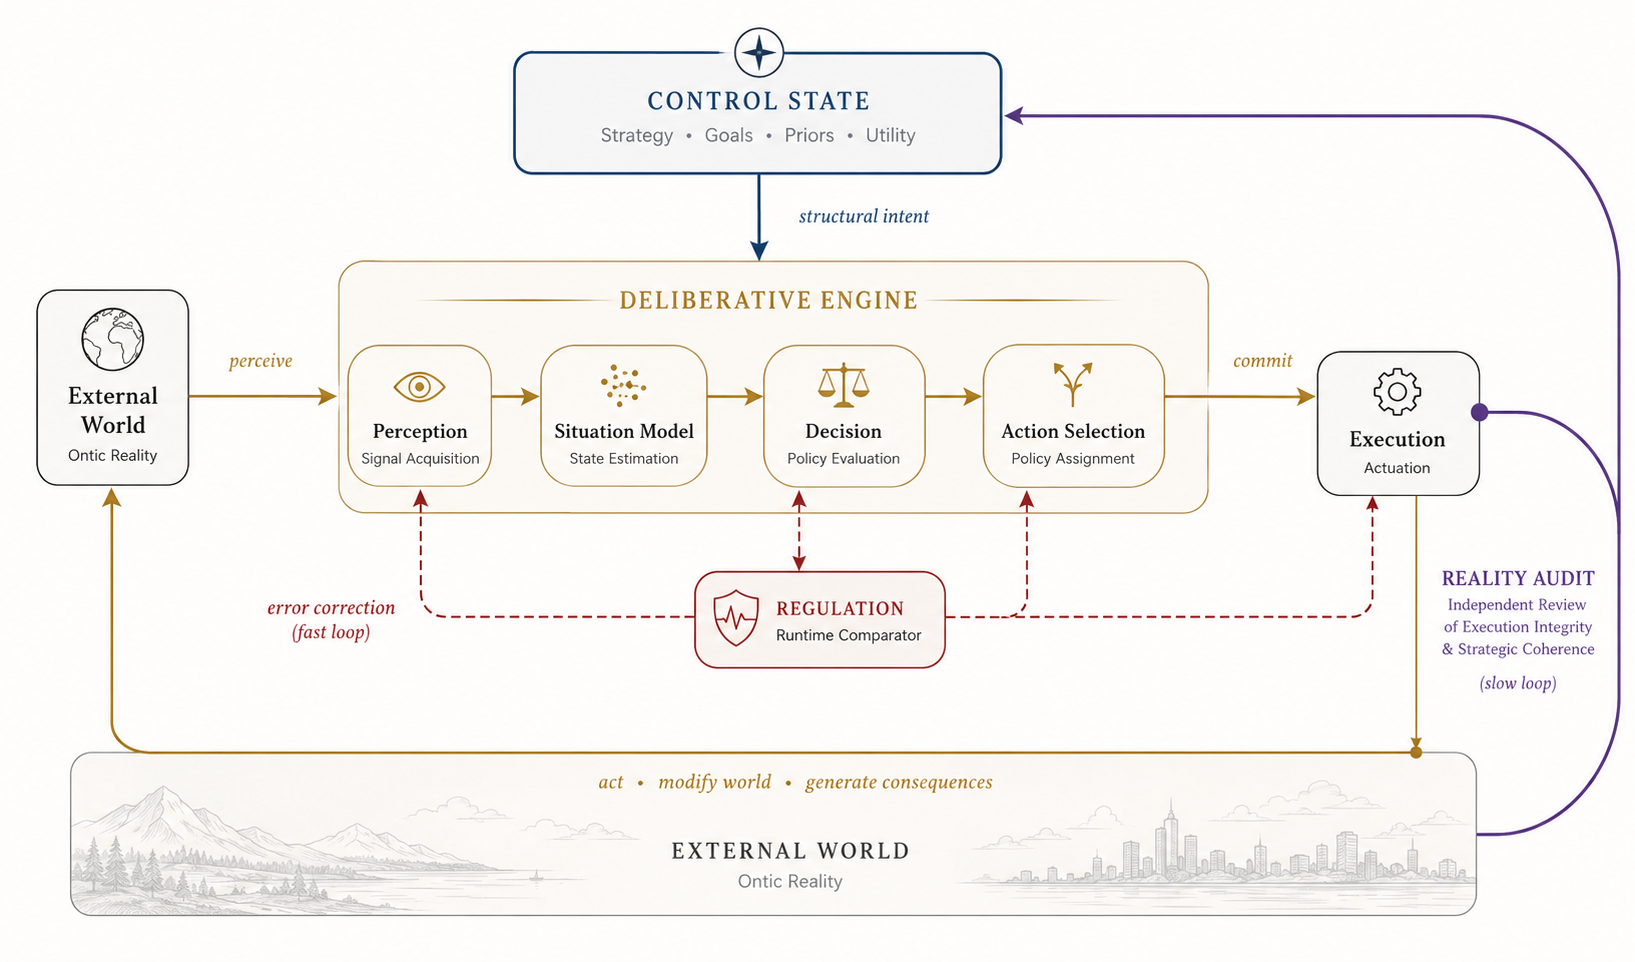
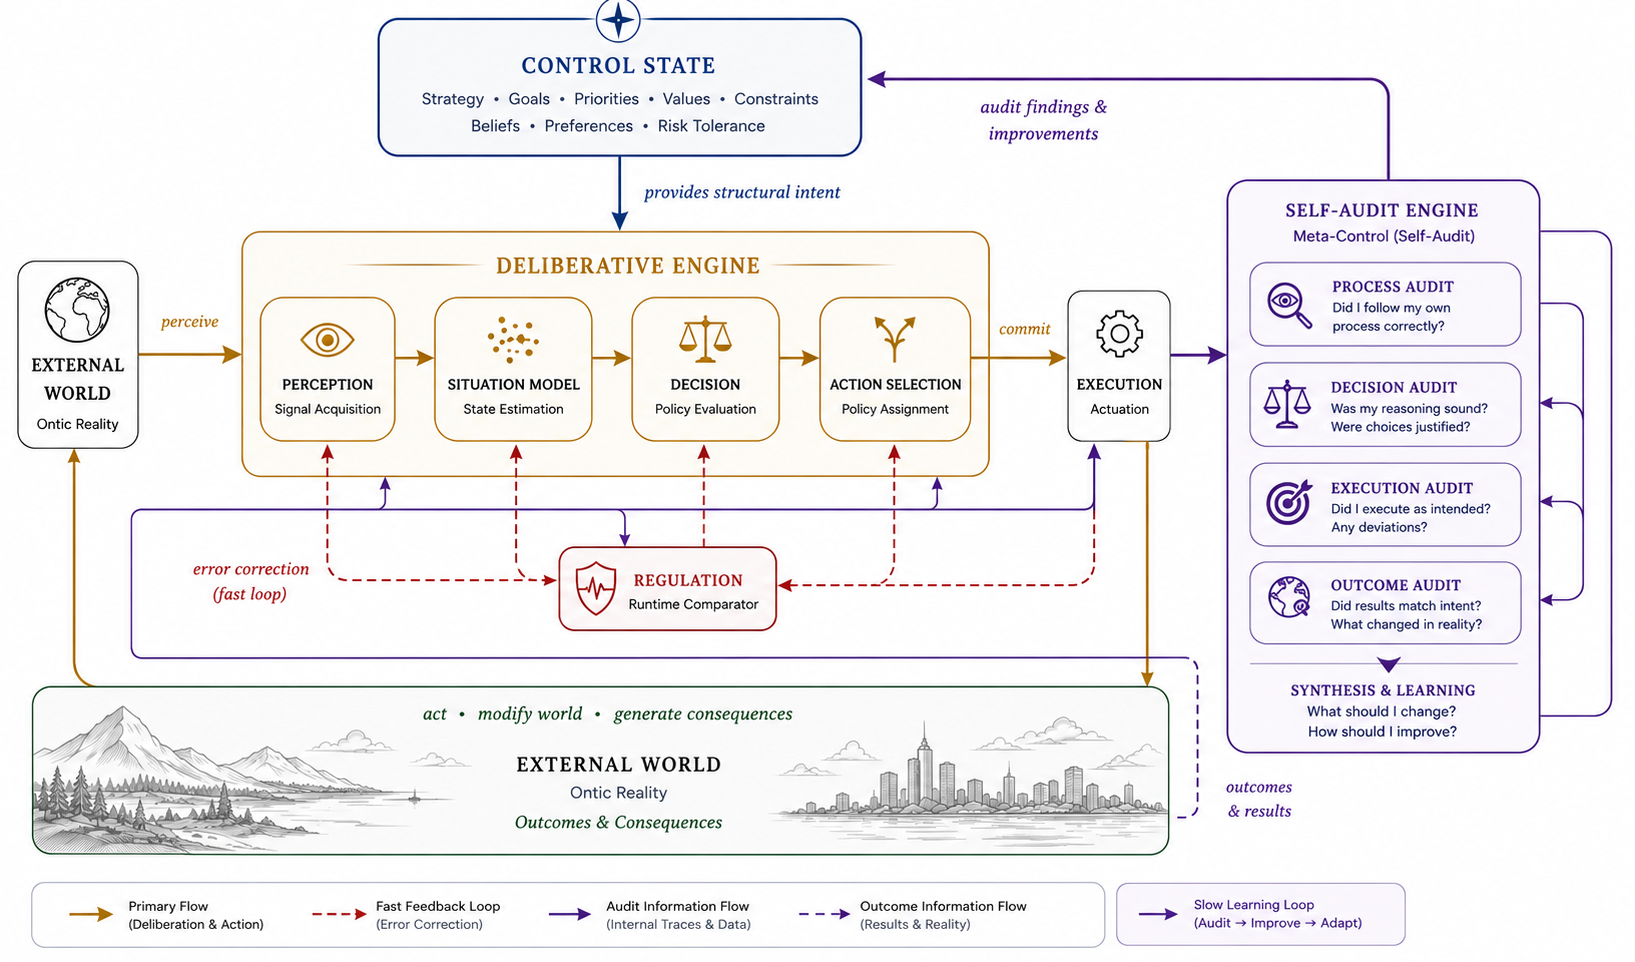
feat: improve the control loop model

diff --git a/README.md b/README.md
@@ -74,3 +74,4 @@ The sub-systems developed within this workspace:
 
 - [Personal Viable System Model (PVSM)](https://app.notion.com/p/Personal-Viable-System-Model-PVSM-2bcc0f5171ec80878d83d041ea5723f6?source=copy_link)
 - [Self-Management](https://app.notion.com/p/Self-Management-2a6c0f5171ec80e5bd2dfa83993a3c84?source=copy_link)
+- [Autoregia * Project](https://app.notion.com/p/Autoregia-390e2010b23f80b392b5d1621c10de0c?v=2a6e2010b23f81c0a027000c38d7f8d2&source=copy_link)